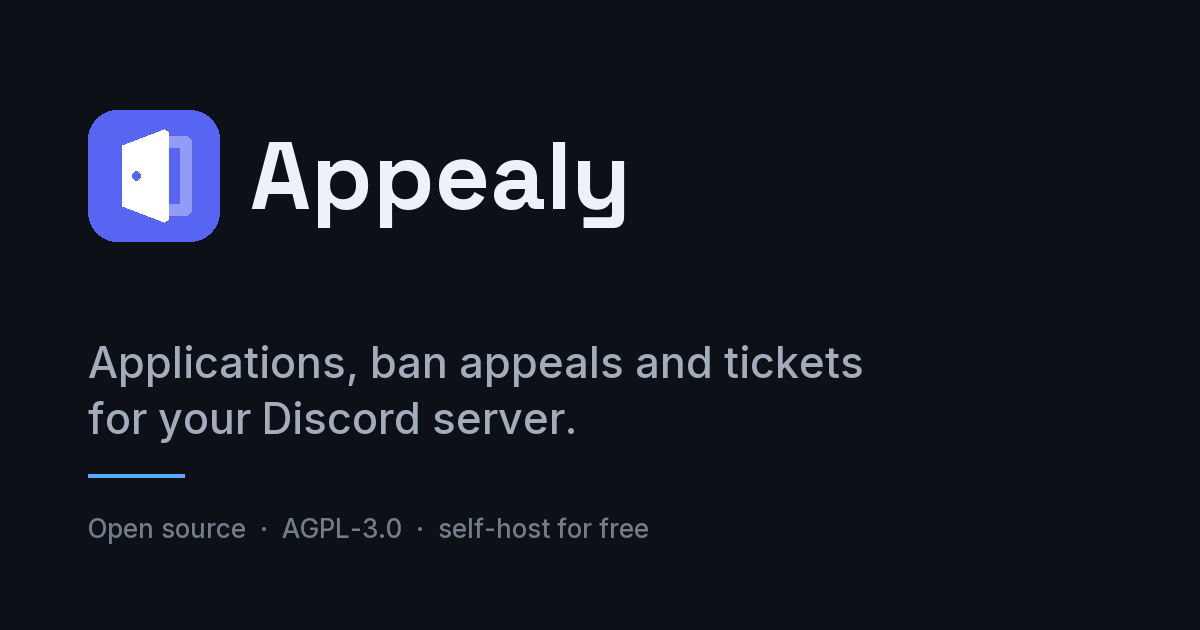
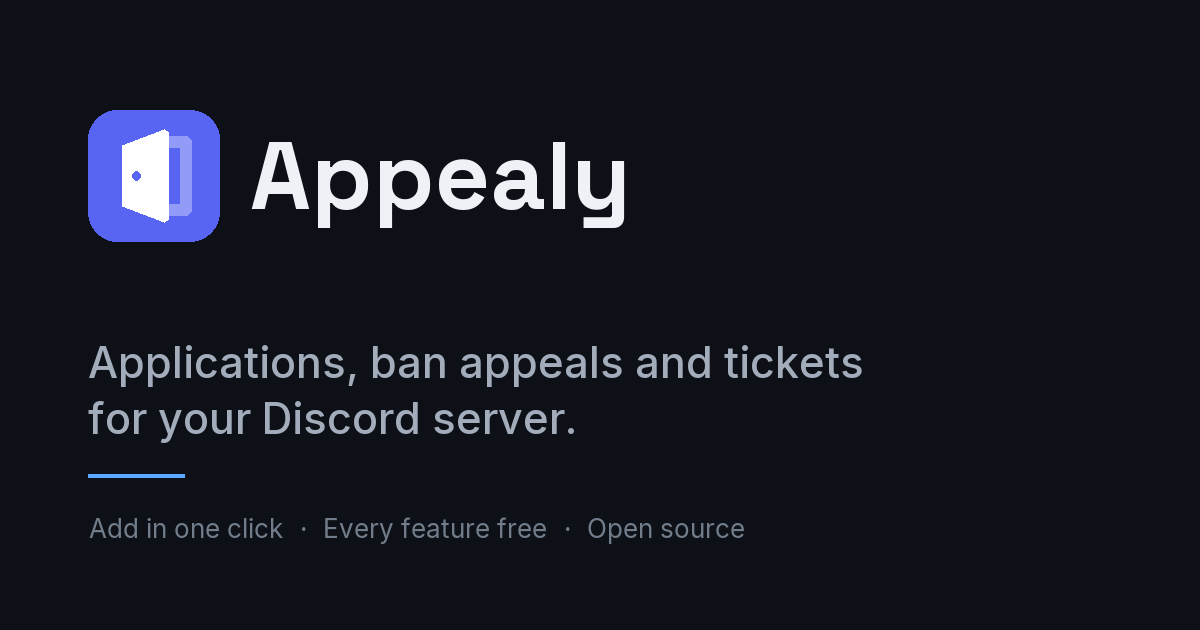
Stop the share card saying "self-host for free" (#14)
The Open Graph card's bottom line read "Open source · AGPL-3.0 ·
self-host for free". Google Images, Discord and Twitter all show that
card, so it kept describing Appealy as something you host yourself after
the page text had stopped saying so.

- The line is now "Add in one click · Every feature free · Open source".
  The original generator is lost, so only that line was redrawn, in the
  font, colour and position that reproduce the original pixels. Nothing
  else in the image changed. brand/README.md records the values.
- og:image and twitter:image now point at og.png?v=2 on every page, so
  services that cache the image by URL fetch the new one.

Claude-Session: https://claude.ai/code/session_01PE2rWGQLfski6js5vxm2tJ

Changed region(s): [[0.0617, 0.8143, 0.6167, 0.8746]]

diff --git a/site/ja/index.html b/site/ja/index.html
@@ -31,14 +31,14 @@
 <meta property="og:url" content="https://appealy.app/ja/">
 <meta property="og:title" content="スタッフ募集に使える Discord 応募ボット — Appealy">
 <meta property="og:description" content="スタッフ募集、BAN 異議申し立て、チケットに対応する Discord ボット。ワンクリックで追加でき、サーバーの用意は不要。応募者は Discord の中で回答します。全機能無料、オープンソース。">
-<meta property="og:image" content="https://appealy.app/og.png">
+<meta property="og:image" content="https://appealy.app/og.png?v=2">
 <meta property="og:image:alt" content="Appealy — Discord サーバーのための応募・BAN 異議申し立て・チケット。">
 <meta property="og:image:width" content="1200">
 <meta property="og:image:height" content="630">
 <meta name="twitter:card" content="summary_large_image">
 <meta name="twitter:title" content="スタッフ募集に使える Discord 応募ボット — Appealy">
 <meta name="twitter:description" content="応募、BAN 異議申し立て、チケット、ギブアウェイ、投票、アンチレイドに対応する Discord ボット。ワンクリックで追加でき、応募者は Discord から離れません。全機能をすべてのティアで。">
-<meta name="twitter:image" content="https://appealy.app/og.png">
+<meta name="twitter:image" content="https://appealy.app/og.png?v=2">
 
 <meta name="theme-color" media="(prefers-color-scheme: dark)" content="#0d1016">
 <meta name="theme-color" media="(prefers-color-scheme: light)" content="#f5f6f8">

diff --git a/site/ja/discord-ban-appeal-bot.html b/site/ja/discord-ban-appeal-bot.html
@@ -28,14 +28,14 @@
 <meta property="og:url" content="https://appealy.app/ja/discord-ban-appeal-bot">
 <meta property="og:title" content="Discord BAN解除申請ボット — Appealy">
 <meta property="og:description" content="誰かを BAN すると Appealy が解除申請フォームを DM します。申請を承認すれば BAN が解除されます。無料・オープンソース・セルフホスト可能で、有料プランの裏に隠れた機能はありません。">
-<meta property="og:image" content="https://appealy.app/og.png">
+<meta property="og:image" content="https://appealy.app/og.png?v=2">
 <meta property="og:image:alt" content="Appealy — Discord サーバーのための応募フォーム、BAN解除申請、チケット。">
 <meta property="og:image:width" content="1200">
 <meta property="og:image:height" content="630">
 <meta name="twitter:card" content="summary_large_image">
 <meta name="twitter:title" content="Discord BAN解除申請ボット — Appealy">
 <meta name="twitter:description" content="誰かを BAN すると Appealy が解除申請フォームを DM します。申請を承認すれば BAN が解除されます。無料・オープンソース・セルフホスト可能で、有料プランの裏に隠れた機能はありません。">
-<meta name="twitter:image" content="https://appealy.app/og.png">
+<meta name="twitter:image" content="https://appealy.app/og.png?v=2">
 
 <meta name="theme-color" media="(prefers-color-scheme: dark)" content="#0d1016">
 <meta name="theme-color" media="(prefers-color-scheme: light)" content="#f5f6f8">

diff --git a/site/ja/discord-ticket-bot.html b/site/ja/discord-ticket-bot.html
@@ -29,14 +29,14 @@
 <meta property="og:url" content="https://appealy.app/ja/discord-ticket-bot">
 <meta property="og:title" content="Discord チケットボット — Appealy">
 <meta property="og:description" content="プライベートチャンネルまたはスレッドとして動くサポートチケット。担当者の確保、評価、定型返信、クローズ時のトランスクリプトに対応。無料・オープンソース・セルフホスト可能。">
-<meta property="og:image" content="https://appealy.app/og.png">
+<meta property="og:image" content="https://appealy.app/og.png?v=2">
 <meta property="og:image:alt" content="Appealy — Discord サーバーのための応募フォーム、BAN解除申請、チケット。">
 <meta property="og:image:width" content="1200">
 <meta property="og:image:height" content="630">
 <meta name="twitter:card" content="summary_large_image">
 <meta name="twitter:title" content="Discord チケットボット — Appealy">
 <meta name="twitter:description" content="プライベートチャンネルまたはスレッドとして動くサポートチケット。担当者の確保、評価、定型返信、クローズ時のトランスクリプトに対応。無料・オープンソース・セルフホスト可能。">
-<meta name="twitter:image" content="https://appealy.app/og.png">
+<meta name="twitter:image" content="https://appealy.app/og.png?v=2">
 
 <meta name="theme-color" media="(prefers-color-scheme: dark)" content="#0d1016">
 <meta name="theme-color" media="(prefers-color-scheme: light)" content="#f5f6f8">

diff --git a/site/ja/appeal-gg-alternative.html b/site/ja/appeal-gg-alternative.html
@@ -35,14 +35,14 @@
 <meta property="og:url" content="https://appealy.app/ja/appeal-gg-alternative">
 <meta property="og:title" content="Discord 向け Appeal.gg の代替 — Appealy">
 <meta property="og:description" content="Discord の BAN解除申請のための、AGPL-3.0 でセルフホストできるオープンソースの Appeal.gg 代替。できないことにも正直です。ミュートや警告の異議申し立てには対応しません。">
-<meta property="og:image" content="https://appealy.app/og.png">
+<meta property="og:image" content="https://appealy.app/og.png?v=2">
 <meta property="og:image:alt" content="Appealy — Discord サーバーのための応募フォーム、BAN解除申請、チケット。">
 <meta property="og:image:width" content="1200">
 <meta property="og:image:height" content="630">
 <meta name="twitter:card" content="summary_large_image">
 <meta name="twitter:title" content="Discord 向け Appeal.gg の代替 — Appealy">
 <meta name="twitter:description" content="Discord の BAN解除申請のための、AGPL-3.0 でセルフホストできるオープンソースの Appeal.gg 代替。できないことにも正直です。ミュートや警告の異議申し立てには対応しません。">
-<meta name="twitter:image" content="https://appealy.app/og.png">
+<meta name="twitter:image" content="https://appealy.app/og.png?v=2">
 
 <meta name="theme-color" media="(prefers-color-scheme: dark)" content="#0d1016">
 <meta name="theme-color" media="(prefers-color-scheme: light)" content="#f5f6f8">

diff --git a/site/ja/discord-anti-raid-bot.html b/site/ja/discord-anti-raid-bot.html
@@ -31,14 +31,14 @@
 <meta property="og:url" content="https://appealy.app/ja/discord-anti-raid-bot">
 <meta property="og:title" content="Discord レイド対策ボット — Appealy">
 <meta property="og:description" content="参加速度によるレイド検知。何秒のあいだに何人の参加をレイドとみなすか、そしてそのとき何をするか（通知・認証の強制・新規参加者のキック）を設定できます。">
-<meta property="og:image" content="https://appealy.app/og.png">
+<meta property="og:image" content="https://appealy.app/og.png?v=2">
 <meta property="og:image:alt" content="Appealy — Discord サーバーのための応募フォーム、BAN解除申請、チケット。">
 <meta property="og:image:width" content="1200">
 <meta property="og:image:height" content="630">
 <meta name="twitter:card" content="summary_large_image">
 <meta name="twitter:title" content="Discord レイド対策ボット — Appealy">
 <meta name="twitter:description" content="参加速度によるレイド検知。何秒のあいだに何人の参加をレイドとみなすか、そしてそのとき何をするか（通知・認証の強制・新規参加者のキック）を設定できます。">
-<meta name="twitter:image" content="https://appealy.app/og.png">
+<meta name="twitter:image" content="https://appealy.app/og.png?v=2">
 
 <meta name="theme-color" media="(prefers-color-scheme: dark)" content="#0d1016">
 <meta name="theme-color" media="(prefers-color-scheme: light)" content="#f5f6f8">

diff --git a/site/ja/appy-alternative.html b/site/ja/appy-alternative.html
@@ -32,14 +32,14 @@
 <meta property="og:url" content="https://appealy.app/ja/appy-alternative">
 <meta property="og:title" content="Discord 向け Appy の代替 — Appealy">
 <meta property="og:description" content="Discord の応募・チケット・BAN解除申請のための Appy の代替。ワンクリックで追加でき、応募者は Discord の中で回答。すべての機能が無料プランに、Appy の履歴もインポートできます。">
-<meta property="og:image" content="https://appealy.app/og.png">
+<meta property="og:image" content="https://appealy.app/og.png?v=2">
 <meta property="og:image:alt" content="Appealy — Discord サーバーのための応募フォーム、BAN解除申請、チケット。">
 <meta property="og:image:width" content="1200">
 <meta property="og:image:height" content="630">
 <meta name="twitter:card" content="summary_large_image">
 <meta name="twitter:title" content="Discord 向け Appy の代替 — Appealy">
 <meta name="twitter:description" content="Discord の応募・チケット・BAN解除申請のための Appy の代替。ワンクリックで追加でき、応募者は Discord の中で回答。すべての機能がすべてのプランに。">
-<meta name="twitter:image" content="https://appealy.app/og.png">
+<meta name="twitter:image" content="https://appealy.app/og.png?v=2">
 
 <meta name="theme-color" media="(prefers-color-scheme: dark)" content="#0d1016">
 <meta name="theme-color" media="(prefers-color-scheme: light)" content="#f5f6f8">

diff --git a/site/ja/discord-giveaway-bot.html b/site/ja/discord-giveaway-bot.html
@@ -29,14 +29,14 @@
 <meta property="og:url" content="https://appealy.app/ja/discord-giveaway-bot">
 <meta property="og:title" content="Discord ギブアウェイボット — Appealy">
 <meta property="og:description" content="ロール条件、ブラックリスト、ロールごとの追加抽選権、複数当選者、再抽選に対応した Discord ギブアウェイ。無料・オープンソース・セルフホスト可能。">
-<meta property="og:image" content="https://appealy.app/og.png">
+<meta property="og:image" content="https://appealy.app/og.png?v=2">
 <meta property="og:image:alt" content="Appealy — Discord サーバーのための応募フォーム、BAN解除申請、チケット。">
 <meta property="og:image:width" content="1200">
 <meta property="og:image:height" content="630">
 <meta name="twitter:card" content="summary_large_image">
 <meta name="twitter:title" content="Discord ギブアウェイボット — Appealy">
 <meta name="twitter:description" content="ロール条件、ブラックリスト、ロールごとの追加抽選権、複数当選者、再抽選に対応した Discord ギブアウェイ。無料・オープンソース・セルフホスト可能。">
-<meta name="twitter:image" content="https://appealy.app/og.png">
+<meta name="twitter:image" content="https://appealy.app/og.png?v=2">
 
 <meta name="theme-color" media="(prefers-color-scheme: dark)" content="#0d1016">
 <meta name="theme-color" media="(prefers-color-scheme: light)" content="#f5f6f8">

diff --git a/site/ja/discord-verification-bot.html b/site/ja/discord-verification-bot.html
@@ -31,14 +31,14 @@
 <meta property="og:url" content="https://appealy.app/ja/discord-verification-bot">
 <meta property="og:title" content="Discord 認証ボット — Appealy">
 <meta property="og:description" content="新規メンバーをボタンまたは短いコードで認証。参加時に付くゲートロールと、認証しない人の自動キックはどちらも任意です。無料・オープンソース。">
-<meta property="og:image" content="https://appealy.app/og.png">
+<meta property="og:image" content="https://appealy.app/og.png?v=2">
 <meta property="og:image:alt" content="Appealy — Discord サーバーのための応募フォーム、BAN解除申請、チケット。">
 <meta property="og:image:width" content="1200">
 <meta property="og:image:height" content="630">
 <meta name="twitter:card" content="summary_large_image">
 <meta name="twitter:title" content="Discord 認証ボット — Appealy">
 <meta name="twitter:description" content="新規メンバーをボタンまたは短いコードで認証。参加時に付くゲートロールと、認証しない人の自動キックはどちらも任意です。無料・オープンソース。">
-<meta name="twitter:image" content="https://appealy.app/og.png">
+<meta name="twitter:image" content="https://appealy.app/og.png?v=2">
 
 <meta name="theme-color" media="(prefers-color-scheme: dark)" content="#0d1016">
 <meta name="theme-color" media="(prefers-color-scheme: light)" content="#f5f6f8">

diff --git a/site/ja/terms.html b/site/ja/terms.html
@@ -26,14 +26,14 @@
 <meta property="og:url" content="https://appealy.app/ja/terms">
 <meta property="og:title" content="利用規約 — Appealy">
 <meta property="og:description" content="appealy.app のホスティングサービスの利用規約。ソフトウェアのライセンス、プランと支払い、上限、プラットフォーム BAN と異議申し立て、データの扱いについて。">
-<meta property="og:image" content="https://appealy.app/og.png">
+<meta property="og:image" content="https://appealy.app/og.png?v=2">
 <meta property="og:image:alt" content="Appealy — Discord サーバーのための応募フォーム、BAN 異議申し立て、チケット。">
 <meta property="og:image:width" content="1200">
 <meta property="og:image:height" content="630">
 <meta name="twitter:card" content="summary_large_image">
 <meta name="twitter:title" content="利用規約 — Appealy">
 <meta name="twitter:description" content="appealy.app のホスティングサービスの利用規約。ソフトウェアのライセンス、プランと支払い、上限、プラットフォーム BAN と異議申し立て、データの扱いについて。">
-<meta name="twitter:image" content="https://appealy.app/og.png">
+<meta name="twitter:image" content="https://appealy.app/og.png?v=2">
 
 <meta name="theme-color" media="(prefers-color-scheme: dark)" content="#0d1016">
 <meta name="theme-color" media="(prefers-color-scheme: light)" content="#f5f6f8">

diff --git a/site/ja/refunds.html b/site/ja/refunds.html
@@ -27,14 +27,14 @@
 <meta property="og:url" content="https://appealy.app/ja/refunds">
 <meta property="og:title" content="返金ポリシー — Appealy">
 <meta property="og:description" content="Appealy のホスティングサービスの返金ポリシー。14日以内なら理由を問わず返金、申請の方法、プランが終わったときにフォームや応募データがどうなるか。">
-<meta property="og:image" content="https://appealy.app/og.png">
+<meta property="og:image" content="https://appealy.app/og.png?v=2">
 <meta property="og:image:alt" content="Appealy — Discord サーバーのための応募フォーム、BAN 異議申し立て、チケット。">
 <meta property="og:image:width" content="1200">
 <meta property="og:image:height" content="630">
 <meta name="twitter:card" content="summary_large_image">
 <meta name="twitter:title" content="返金ポリシー — Appealy">
 <meta name="twitter:description" content="Appealy のホスティングサービスの返金ポリシー。14日以内なら理由を問わず返金、申請の方法、プランが終わったときにフォームや応募データがどうなるか。">
-<meta name="twitter:image" content="https://appealy.app/og.png">
+<meta name="twitter:image" content="https://appealy.app/og.png?v=2">
 
 <meta name="theme-color" media="(prefers-color-scheme: dark)" content="#0d1016">
 <meta name="theme-color" media="(prefers-color-scheme: light)" content="#f5f6f8">

diff --git a/site/ja/privacy.html b/site/ja/privacy.html
@@ -29,14 +29,14 @@
 <meta property="og:url" content="https://appealy.app/ja/privacy">
 <meta property="og:title" content="プライバシー — Appealy">
 <meta property="og:description" content="appealy.app のホスティング版で何が保存され、何が収集されないか。保存期間、閲覧できる人の範囲、データの持ち出し、削除の依頼方法について。">
-<meta property="og:image" content="https://appealy.app/og.png">
+<meta property="og:image" content="https://appealy.app/og.png?v=2">
 <meta property="og:image:alt" content="Appealy — Discord サーバーのための応募フォーム、BAN 異議申し立て、チケット。">
 <meta property="og:image:width" content="1200">
 <meta property="og:image:height" content="630">
 <meta name="twitter:card" content="summary_large_image">
 <meta name="twitter:title" content="プライバシー — Appealy">
 <meta name="twitter:description" content="appealy.app のホスティング版で何が保存され、何が収集されないか。保存期間、閲覧できる人の範囲、データの持ち出し、削除の依頼方法について。">
-<meta name="twitter:image" content="https://appealy.app/og.png">
+<meta name="twitter:image" content="https://appealy.app/og.png?v=2">
 
 <meta name="theme-color" media="(prefers-color-scheme: dark)" content="#0d1016">
 <meta name="theme-color" media="(prefers-color-scheme: light)" content="#f5f6f8">

diff --git a/site/index.html b/site/index.html
@@ -35,7 +35,7 @@
 <meta property="og:url" content="https://appealy.app/">
 <meta property="og:title" content="Discord Application Bot for Staff Applications — Appealy">
 <meta property="og:description" content="Discord bot for staff applications, ban appeals and tickets. Add it in one click with nothing to host; applicants answer inside Discord. Every feature free.">
-<meta property="og:image" content="https://appealy.app/og.png">
+<meta property="og:image" content="https://appealy.app/og.png?v=2">
 <meta property="og:image:alt" content="Appealy — applications, ban appeals and tickets for your Discord server.">
 <meta property="og:image:width" content="1200">
 <meta property="og:image:height" content="630">
@@ -47,7 +47,7 @@
 <meta name="twitter:card" content="summary_large_image">
 <meta name="twitter:title" content="Discord Application Bot for Staff Applications — Appealy">
 <meta name="twitter:description" content="Discord bot for applications, ban appeals, tickets, giveaways, polls and anti-raid. Add it in one click; applicants never leave Discord. Every feature at every tier.">
-<meta name="twitter:image" content="https://appealy.app/og.png">
+<meta name="twitter:image" content="https://appealy.app/og.png?v=2">
 
 <meta name="theme-color" media="(prefers-color-scheme: dark)" content="#0d1016">
 <meta name="theme-color" media="(prefers-color-scheme: light)" content="#f5f6f8">
